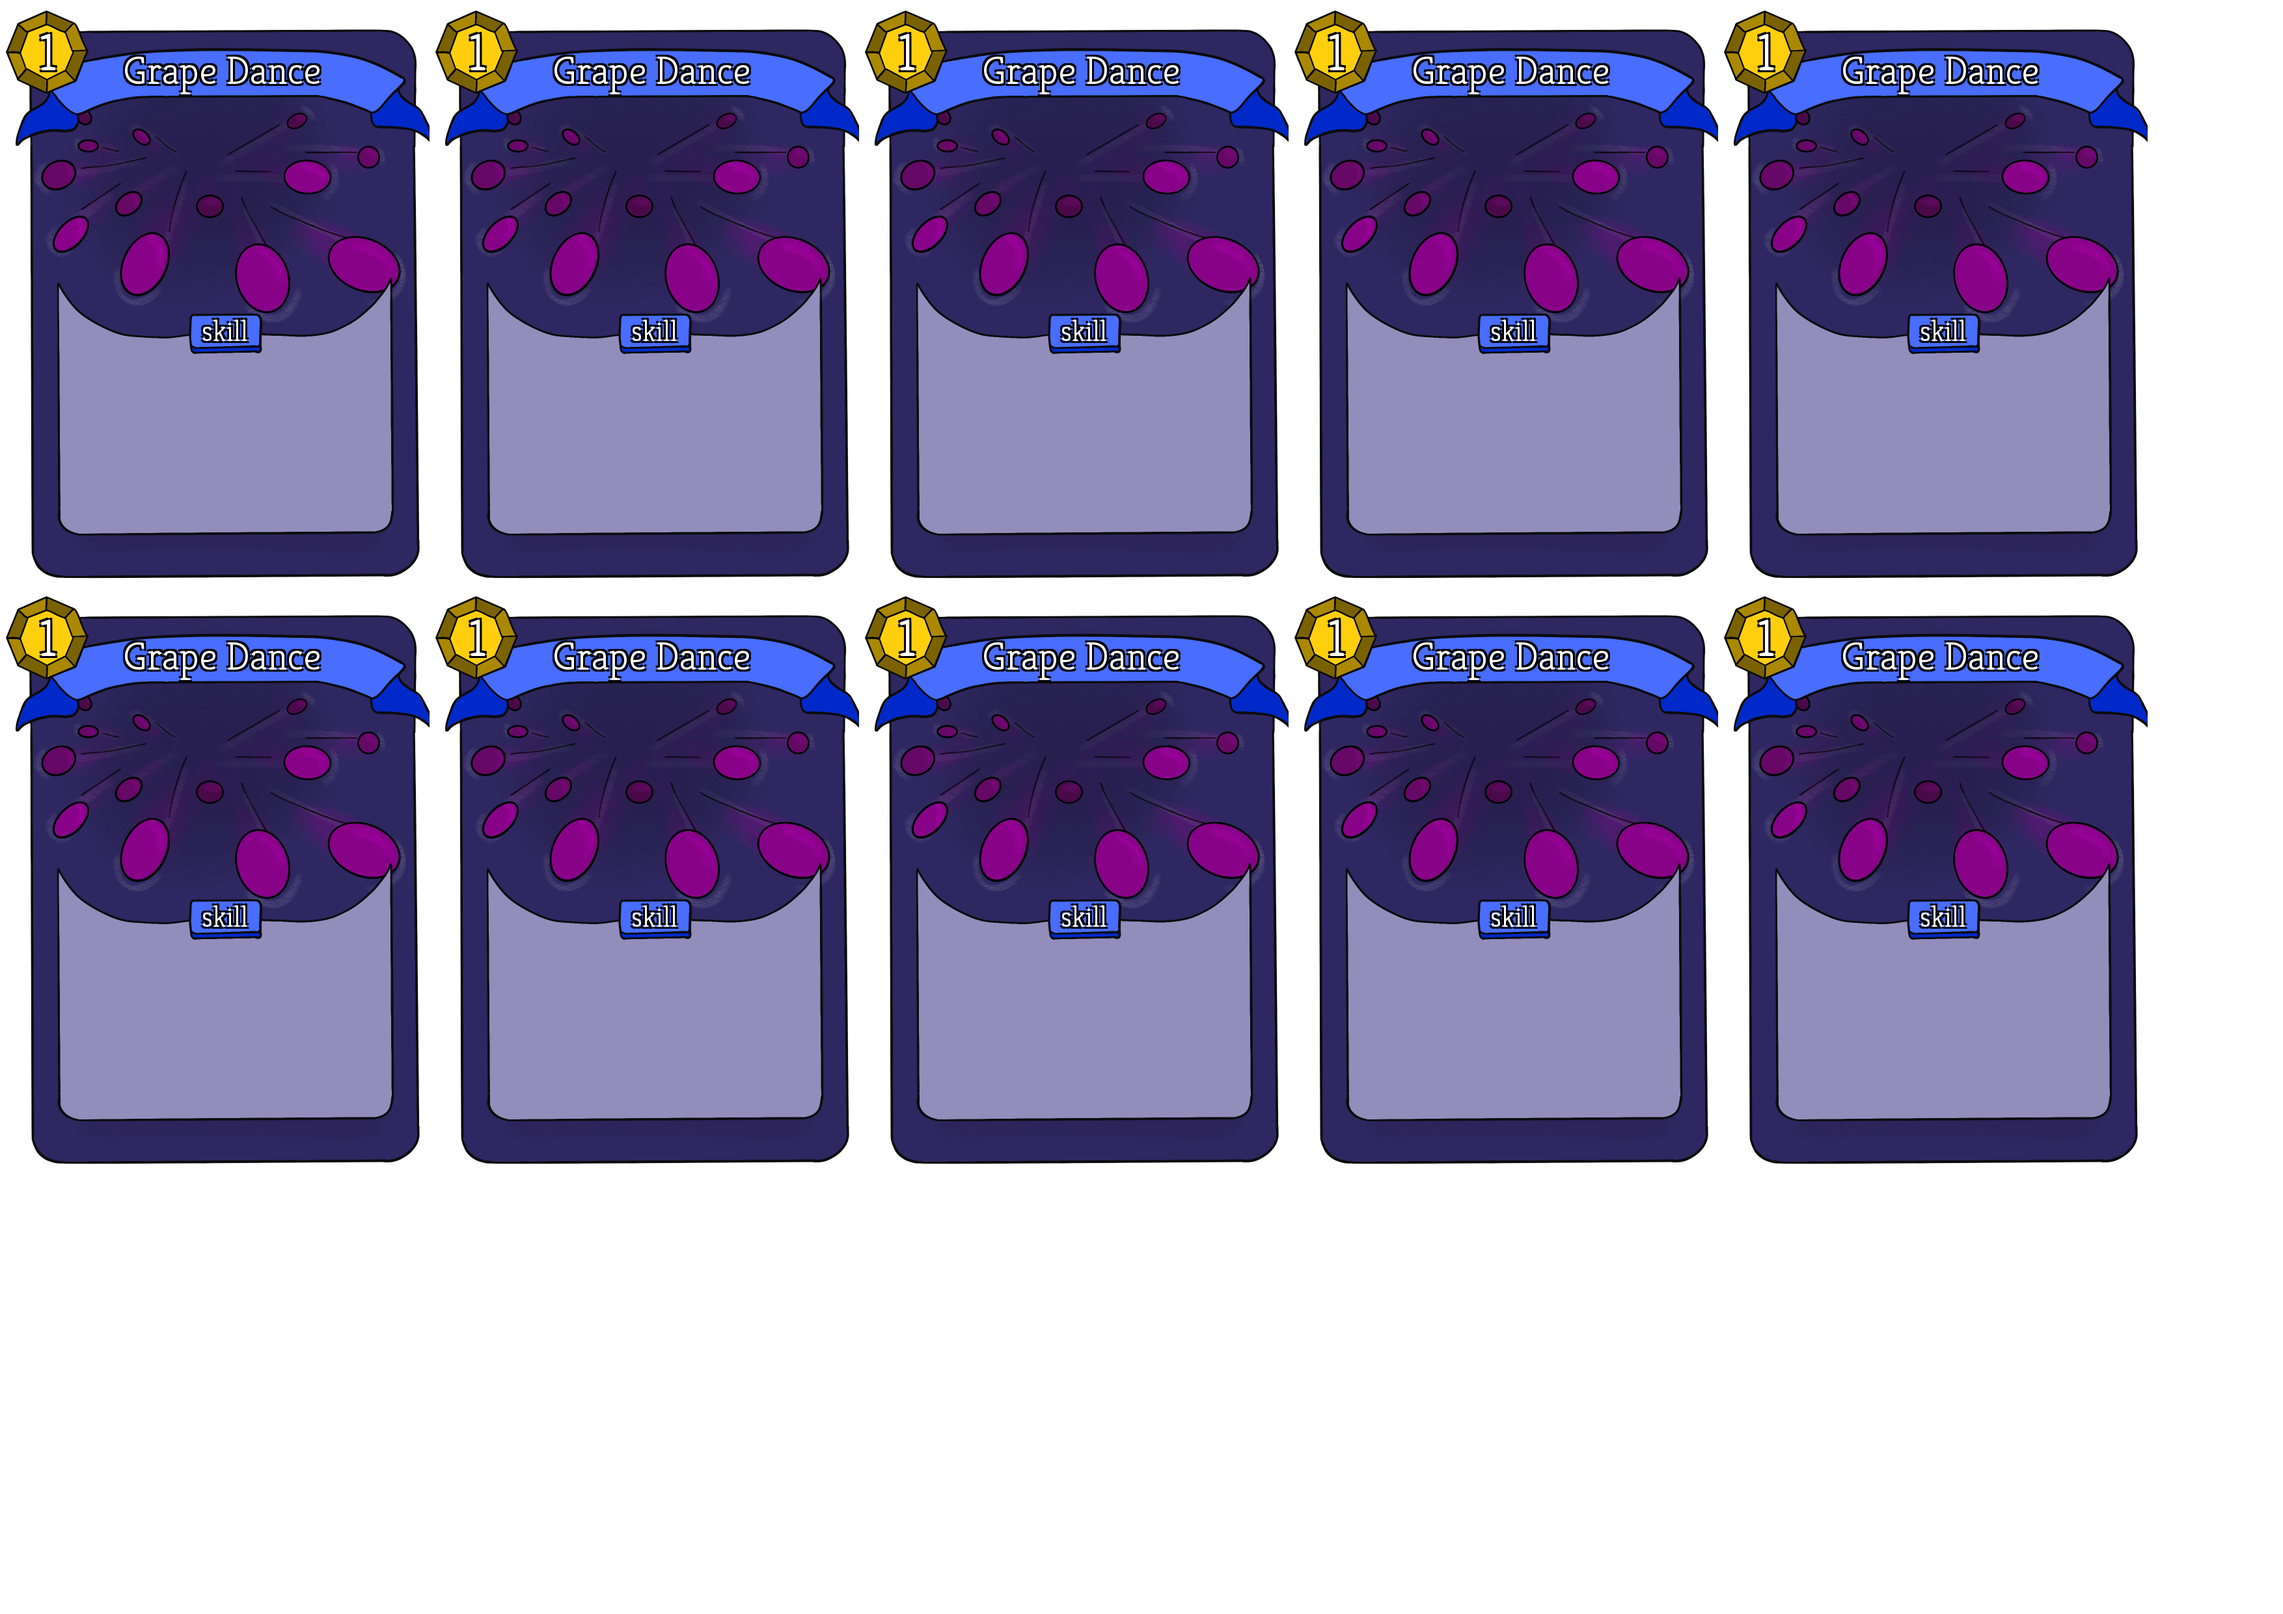
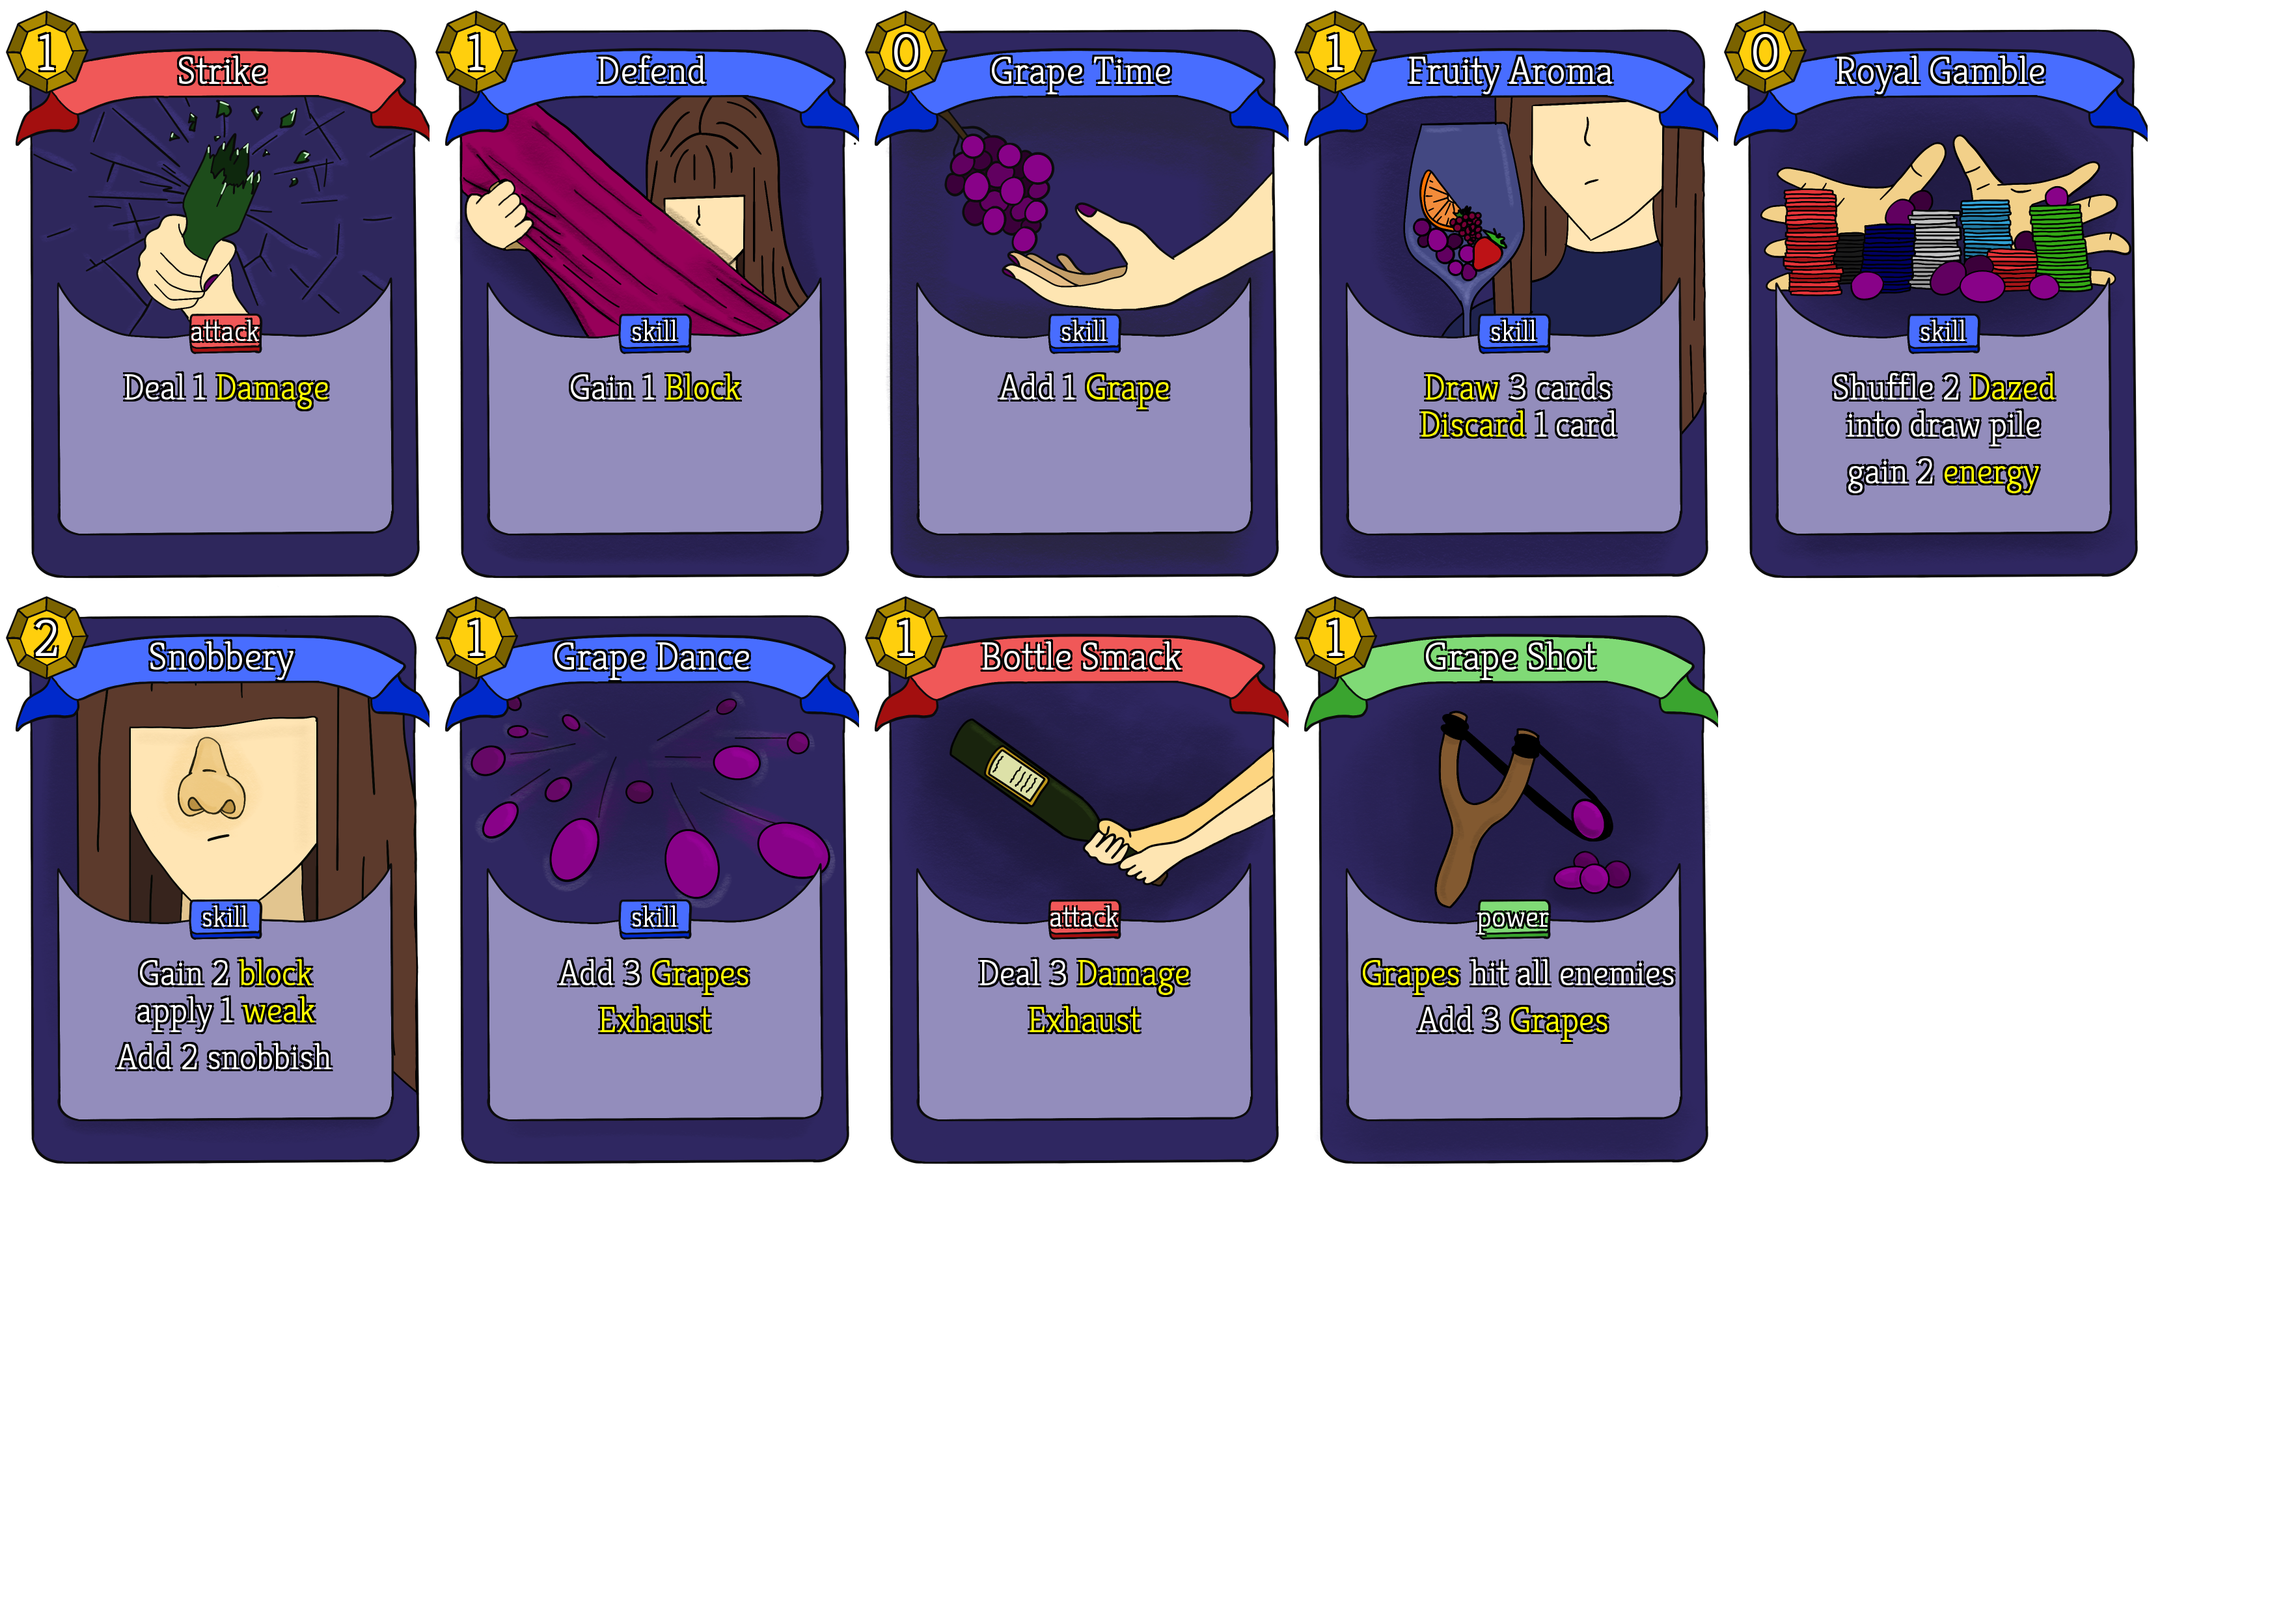
started added in cards, minor refactoring, descriptions on cards

diff --git a/cardGen.py b/cardGen.py
@@ -3,7 +3,16 @@ import numpy as np
 
 cards = [ # art, name, type, energy, description
     #("./cards/",1,"",[""]),
-    ("./art/cards/grape_dance.png","Grape Dance", "skill", 1,["Add 3 [grape]s","exhaust"]) for x in range(14)
+    # Wine connoisseur
+    ("./art/cards/strike_wine.png","Strike", "attack", 1,["Deal 1 $Damage$"]),
+    ("./art/cards/defend_wine.png","Defend", "skill", 1,["Gain 1 $Block$"]),
+    ("./art/cards/grape_time.png","Grape Time", "skill", 0,["Add 1 $Grape$"]),
+    ("./art/cards/fruity_aroma.png","Fruity Aroma", "skill", 1,["$Draw$3 cards", "$Discard$1 card"]),
+    ("./art/cards/royal_gamble.png","Royal Gamble", "skill", 0,["Shuffle 2 $Dazed$","into draw pile", "gain 2 $energy$"]),
+    ("./art/cards/snobbery.png","Snobbery", "skill", 2,["Gain 2 $block$","apply 1 $weak$", "Add 2 snobbish"]),
+    ("./art/cards/grape_dance.png","Grape Dance", "skill", 1,["Add 3 $Grapes$","$Exhaust$"]),
+    ("./art/cards/bottle_smack.png","Bottle Smack", "attack", 1,["Deal 3 $Damage$","$Exhaust$"]),
+    ("./art/cards/grape_shot.png","Grape Shot", "power", 1,["$Grapes$hit all enemies","Add 3 $Grapes$"]),
 ]
 
 from PIL import Image, ImageDraw, ImageFont
@@ -41,11 +50,28 @@ def overlay(img: cv2.typing.MatLike,subimg: cv2.typing.MatLike,x: int,y: int,cap
         tSize, _ = cv2.getTextSize(caption,cv2.FONT_HERSHEY_SIMPLEX,1,2)
         cv2.putText(img,caption,(x+s[0]//2-tSize[0]//2,y+s[1]+35),cv2.FONT_HERSHEY_SIMPLEX,1,(0,0,0),2)
 
+def putTextPlus(img,objs,pos,size):
+    font = ImageFont.truetype("./misc/kreon.ttf",size)
+    hSize = 0
+    x = pos[0]
+    for o in objs: #(type="str"|"img",string|image, c1, c2)
+        if o[0]=="str":
+            hSize = font.getmask(o[1]).getbbox()[2]
+            img=putTextPIL(img,o[1],(x,pos[1]),size,o[2],True,o[3])
+            x += hSize + 16
+        elif o[0]=="img": 
+            raise NotImplementedError("Image handling not defined in description writing")
+        else:
+            raise Exception("Invalid arguments passed to putTextPlus: ",o)
+
+    return img
+
 def placeCard(img:cv2.typing.MatLike, card: cv2.typing.MatLike,x:int,y:int,name:str,ctype:str,energy:int,description:list[str]):
     overlay(img,card,x,y)
 
     #energy
-    img = putTextPIL(img,str(energy),(x+60,y+30),80,(255,255,255),True,(0,0,0))
+    font = ImageFont.truetype("./misc/kreon.ttf",80)
+    img = putTextPIL(img,str(energy),(x+70-font.getmask(str(energy)).getbbox()[2]//2,y+30),80,(255,255,255),True,(0,0,0))
 
     #name
     font = ImageFont.truetype("./misc/kreon.ttf",60)
@@ -56,7 +82,29 @@ def placeCard(img:cv2.typing.MatLike, card: cv2.typing.MatLike,x:int,y:int,name:
     img = putTextPIL(img,ctype,(x+345-font.getmask(ctype).getbbox()[2]//2,y+480),45,(255,255,255),True,(0,0,0))
 
     #description
-
+    font = ImageFont.truetype("./misc/kreon.ttf",55)
+    for d in description:
+        keyword = False
+        bbox = font.getmask(d.replace("$","")).getbbox()
+        tempString = ""
+        strings = []
+        for c in d:
+            if c=="$":
+                if tempString != "":
+                    strings.append(("str",tempString,(255,255,0) if keyword else (255,255,255),(0,0,0)))
+                    tempString = ""
+                keyword = not keyword
+            else:
+                tempString = tempString + c
+        if tempString != "":
+            strings.append(("str",tempString,(255,255,0) if keyword else (255,255,255),(0,0,0)))
+        img=putTextPlus(
+            img,
+            strings,
+            (x+345-bbox[2]//2, y + 560),
+            55
+        )
+        y += bbox[3]+16
 
     return img
 

diff --git a/Slay the spire irl planning/characters/Wine connoisseur.md b/Slay the spire irl planning/characters/Wine connoisseur.md
@@ -17,7 +17,7 @@ snobbish - Unplayable, retain
 dazed - Unplayable, ethereal
 
 findable cards
-[[royal gamble]] (shuffle two dazed into your draw pile, draw 2 cards, 1 cost, SKILL)
+[[royal gamble]] (Gain 2 energy, shuffle 2 dazed into draw pile, 0 cost, SKILL)
 [[snobbery]] (Gain 2 block, apply 1 weak. Add 2 snobbish to your hand, costs 1, SKILL)
 [[Vinyard]] (add 2 grapes to your hand, 1 cost, SKILL)
 [[Grape vine]] (at the start of each turn, add 1 grape to your hand, 1 cost POWER)
@@ -26,9 +26,9 @@ findable cards
 [[Cheese board]] (All players draw 1 card and gain 1 block, 2 cost SKILL)
 [[floral aroma]] (Retain, Exhaust all statuses in your hand, 1 cost SKILL, RARE) X
 [[Herbal aroma]] (whenever you draw a status, draw 1 card, 1 cost POWER) X
-[[Mineral aroma]] (Whenever you exhaust a status add a grape to your hand, 1 cost POWER) X
+[[Mineral aroma]] (on status creation, 1 damage to random enemy, 1 cost POWER) X
 [[Pour out heart]] (Add an emotional to your discard pile, gain 2 energy, 0 cost, SKILL)
-[[One more glass]] (Add a dazed to your draw pile, Draw two cards, 1 cost SKILL)
+[[One more glass]] (Shuffle dazed into draw pile, Draw two cards, 1 cost SKILL)
 [[Sommelier]] (Your grapes do 1 additional damage, 1 cost POWER, COMMON)
 [[Grape trap]] (Play all grapes from your exhaust pile, 2 cost SKILL, RARE)
 [[Grapeshot]] (Your grapes now hit all enemies, gain 3 grapes, 2 cost POWER, RARE)
